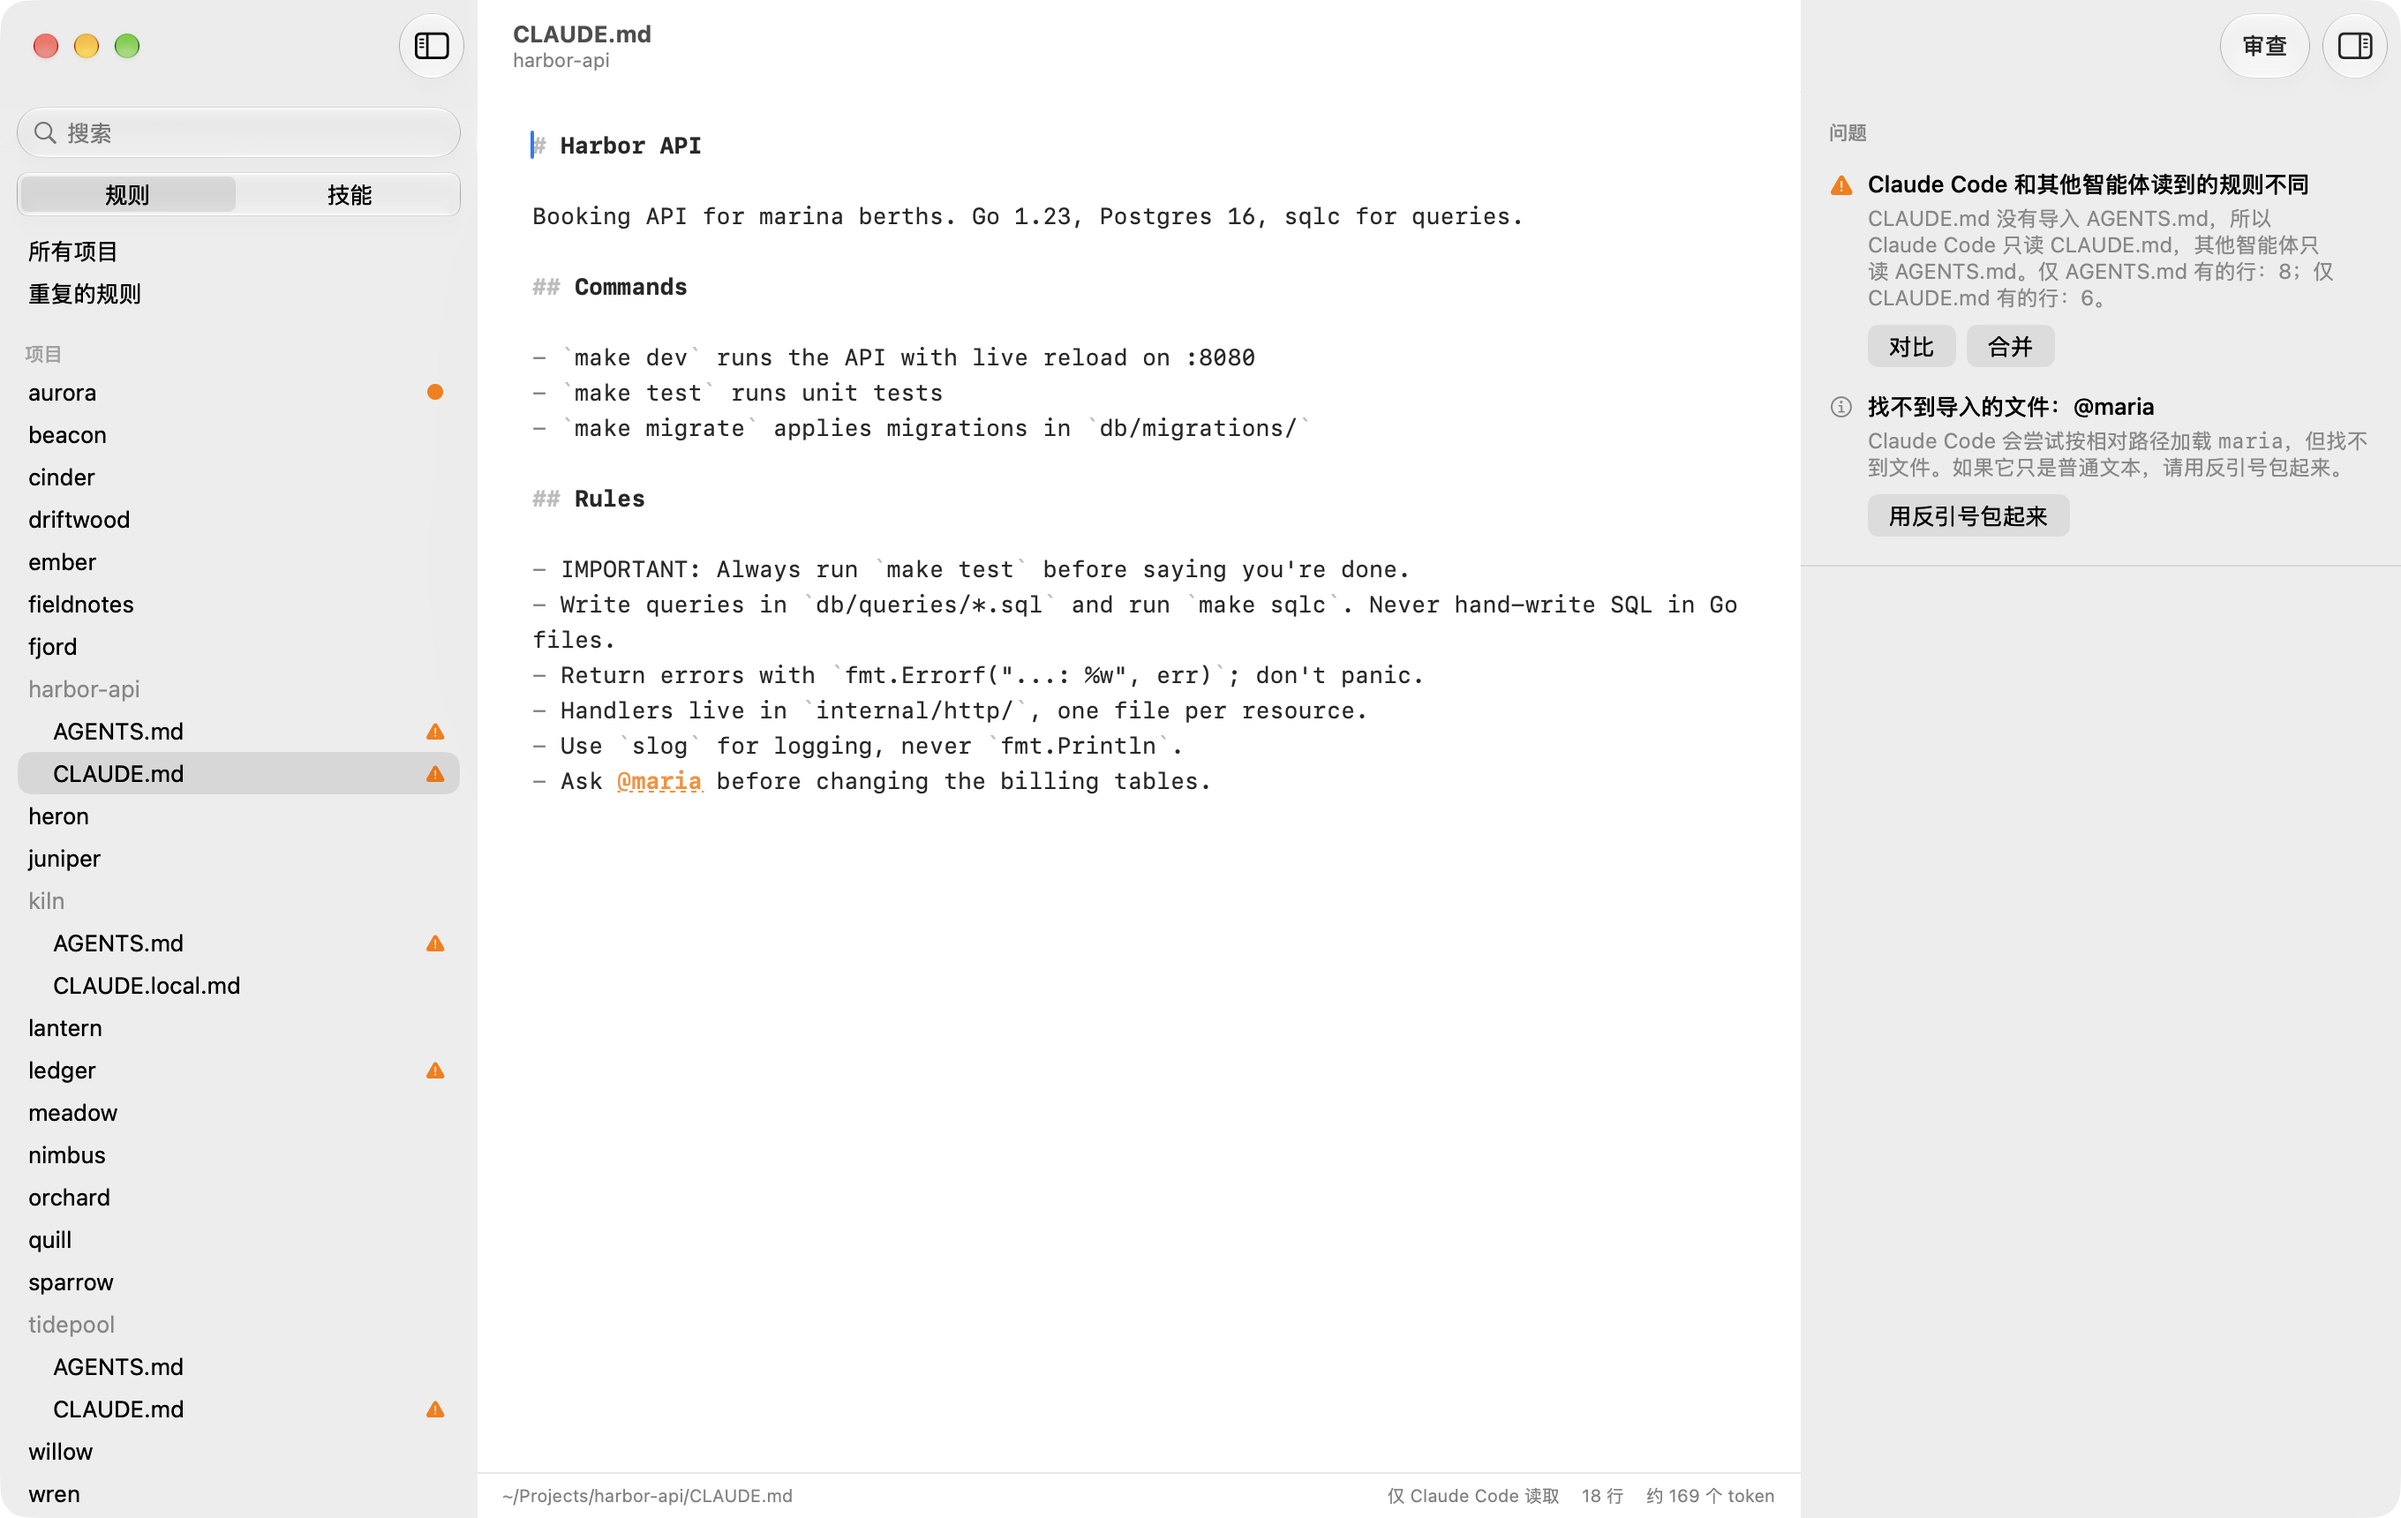
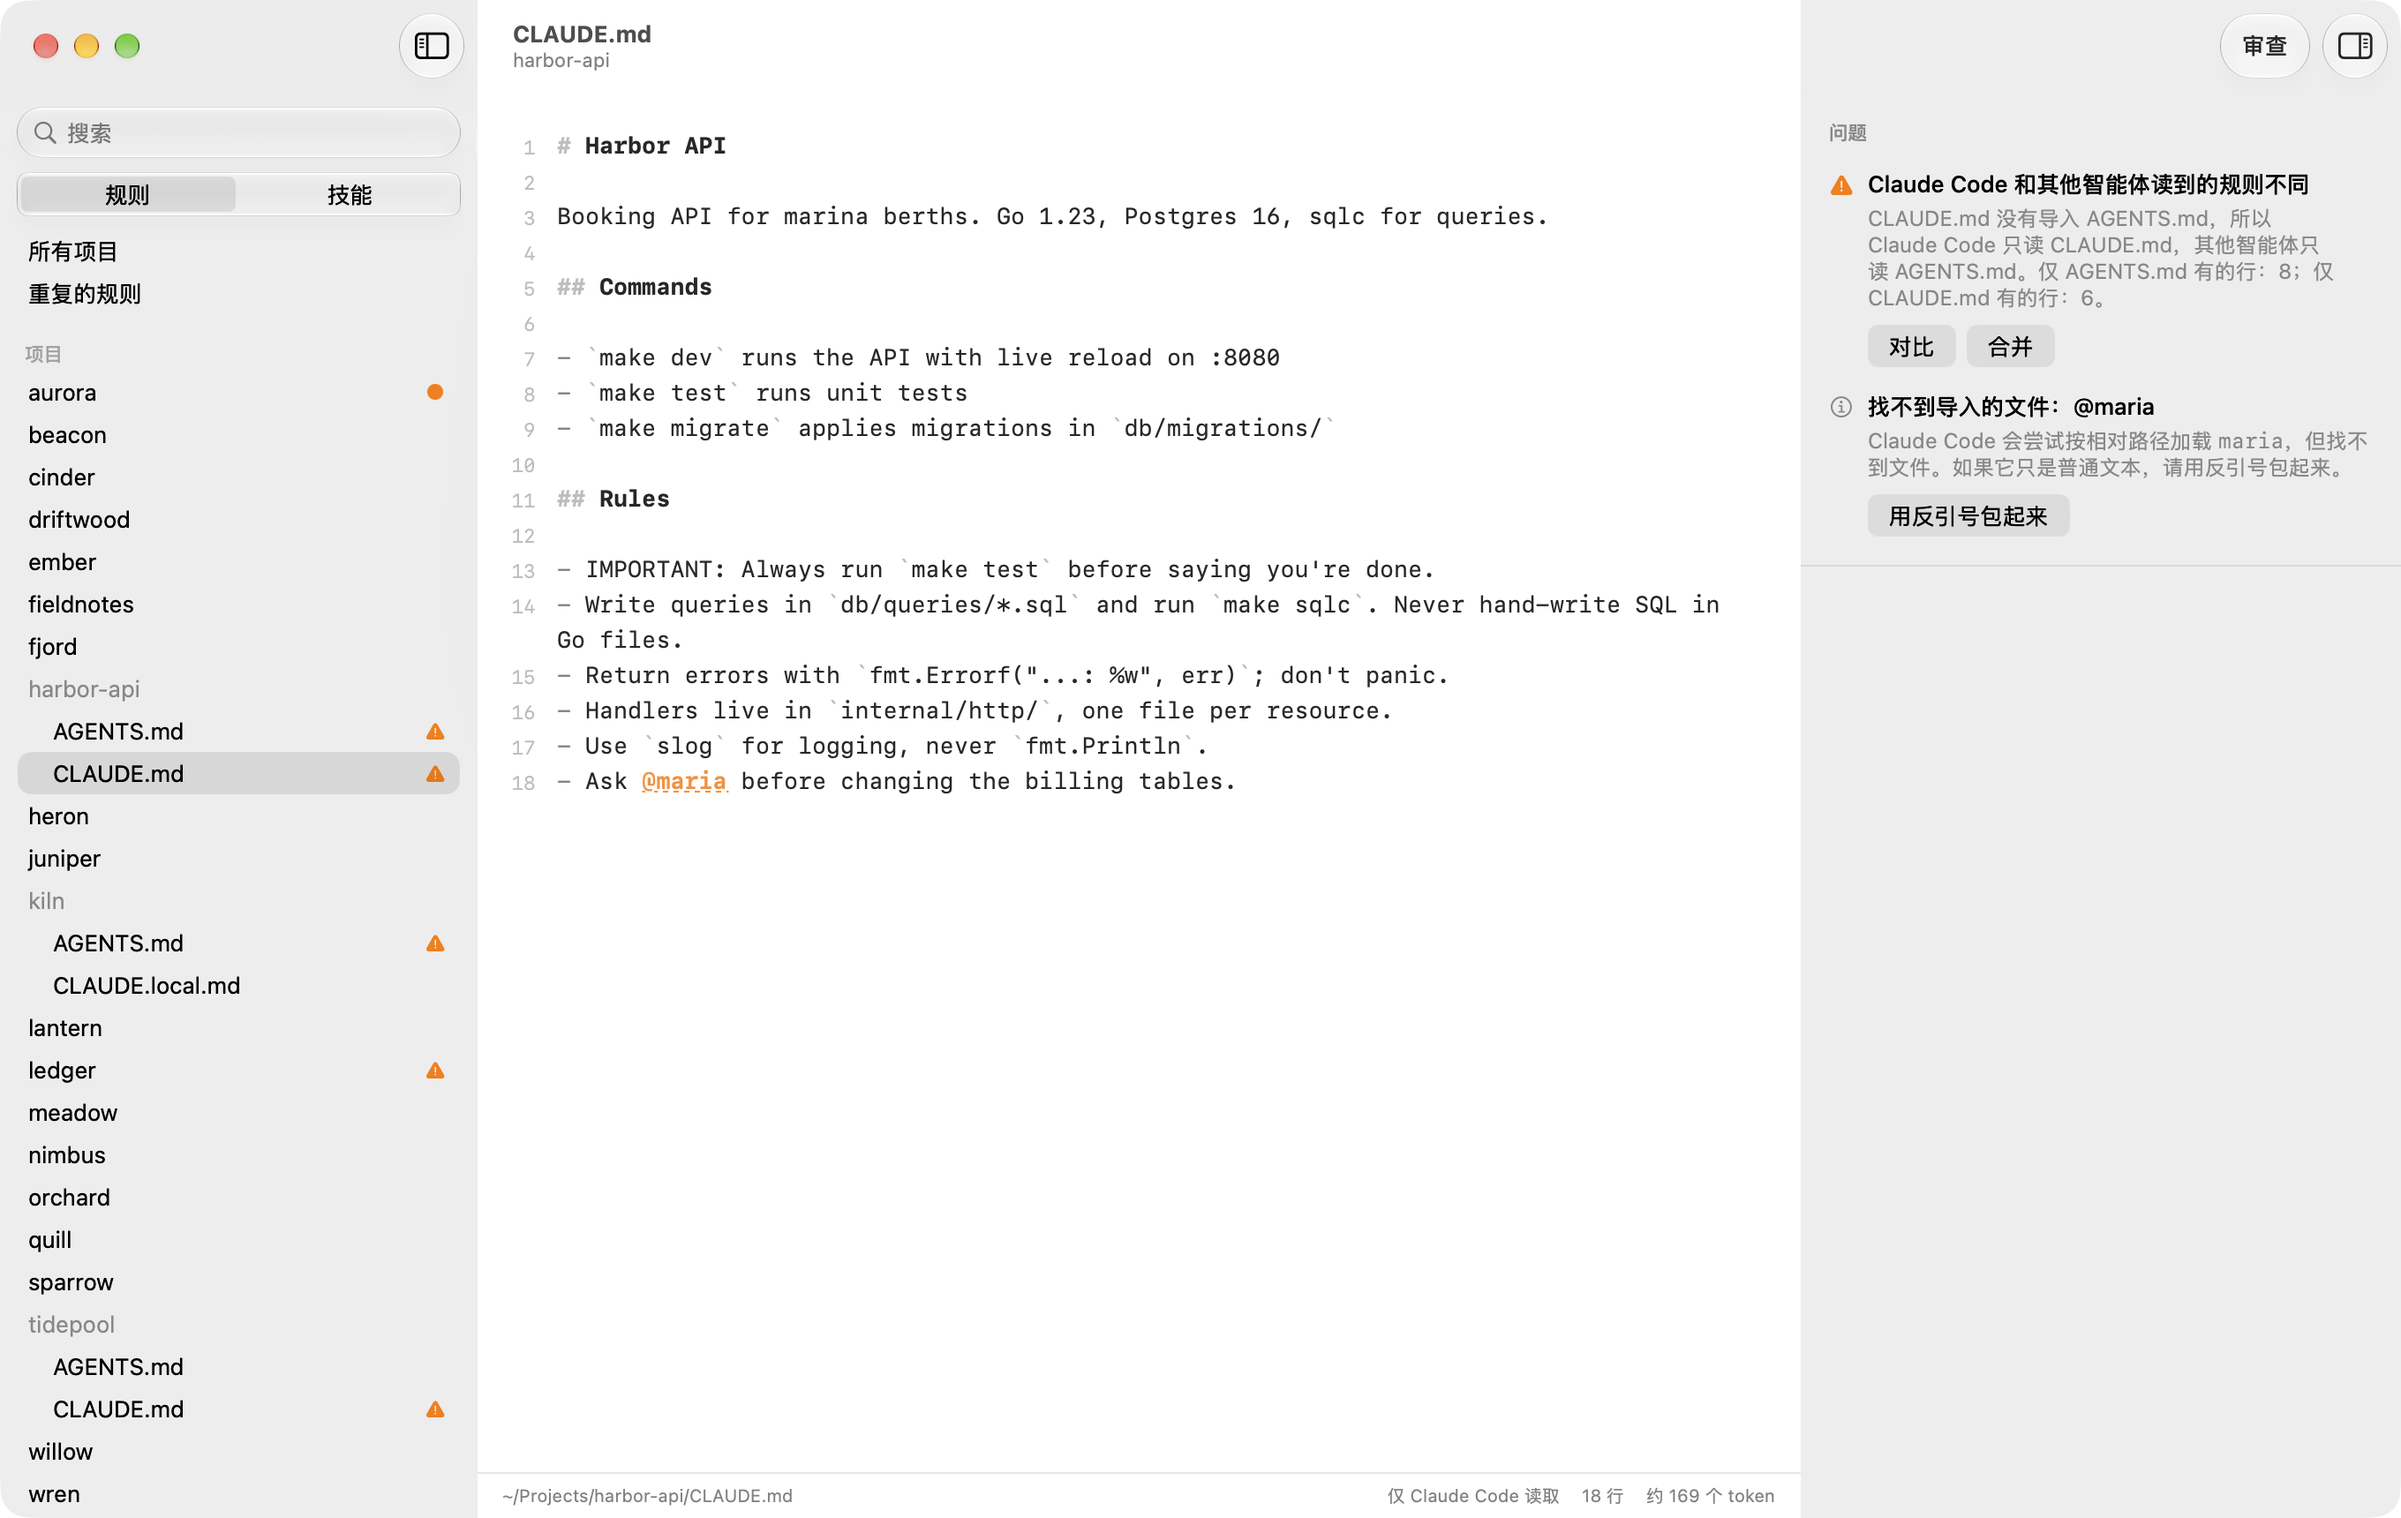
Number the lines in the editor, version 0.2.3
Audits point to lines by number. The numbers sit in an indent every paragraph
has, so the text keeps its right margin; a wrapped line is numbered once, and
the lines the selection is on are a shade darker.

Changed region(s): [[0.2188, 0.3698, 0.7188, 0.5238], [0.2188, 0.1849, 0.5312, 0.339], [0.2188, 0.0924, 0.625, 0.1541]]

diff --git a/Sources/Rulebook/Editor/MarkdownEditor.swift b/Sources/Rulebook/Editor/MarkdownEditor.swift
@@ -59,7 +59,7 @@ struct MarkdownEditor: NSViewRepresentable {
     func makeCoordinator() -> Coordinator { Coordinator(self) }
 
     func makeNSView(context: Context) -> NSScrollView {
-        let scroll = NSTextView.scrollableTextView()
+        let scroll = RulesTextView.scrollableTextView()
         scroll.hasVerticalScroller = true
         scroll.autohidesScrollers = true
         scroll.drawsBackground = true
@@ -109,6 +109,7 @@ struct MarkdownEditor: NSViewRepresentable {
             coordinator.enter(docID, with: text)
             tv.setSelectedRange(NSRange(location: 0, length: 0))
             tv.scrollToBeginningOfDocument(nil)
+            tv.needsDisplay = true
             return
         }
         guard tv.string != text else { return }
@@ -121,6 +122,7 @@ struct MarkdownEditor: NSViewRepresentable {
         }
         MarkdownHighlighter.highlight(tv.textStorage!, baseDir: baseDir, isSkill: isSkill)
         coordinator.isApplyingExternalChange = false
+        tv.needsDisplay = true
     }
 
     final class Coordinator: NSObject, NSTextViewDelegate {
@@ -157,6 +159,95 @@ struct MarkdownEditor: NSViewRepresentable {
     }
 }
 
+/// The editor's text view, with each line's number in the margin, since audits point to lines by number.
+/// The numbers sit in an indent every paragraph has, not in a ruler, so the text keeps its margin on the right.
+/// A long line that wraps is numbered once, and the lines the selection is on are numbered a shade darker.
+final class RulesTextView: NSTextView {
+    /// How far the text moves right to make room for the numbers.
+    static let gutter: CGFloat = 14
+    private static let numberFont = NSFont.monospacedSystemFont(ofSize: 11, weight: .regular)
+    private var scrollObserver: NSObjectProtocol?
+
+    /// Where the text starts, and the numbers end a little before.
+    private var textStart: CGFloat { textContainerOrigin.x + (textContainer?.lineFragmentPadding ?? 0) + Self.gutter }
+
+    override func drawBackground(in rect: NSRect) {
+        super.drawBackground(in: rect)
+        guard rect.minX < textStart else { return }
+        let ns = string as NSString
+        let origin = textContainerOrigin
+        let selection = selectedRange()
+        let active = window?.firstResponder === self
+        // Lines are counted from the first one drawn, so a redraw near the end of a long file doesn't count from the top.
+        var counted = 0, newlines = 0
+
+        func number(at offset: Int, baseline: CGFloat) {
+            guard offset == 0 || (offset <= ns.length && ns.character(at: offset - 1) == 10) else { return }
+            while counted < offset { if ns.character(at: counted) == 10 { newlines += 1 }; counted += 1 }
+            let line = ns.lineRange(for: NSRange(location: offset, length: 0))
+            let current = active && (NSIntersectionRange(line, selection).length > 0
+                || (selection.location >= line.location && selection.location < NSMaxRange(line))
+                || (selection.location == ns.length && NSMaxRange(line) == ns.length && !ns.hasSuffix("\n")))
+            let label = NSAttributedString(string: String(newlines + 1), attributes: [
+                .font: Self.numberFont,
+                .foregroundColor: current ? NSColor.secondaryLabelColor : NSColor.tertiaryLabelColor,
+            ])
+            label.draw(at: NSPoint(x: textStart - 12 - label.size().width, y: baseline - Self.numberFont.ascender))
+        }
+
+        if let layout = textLayoutManager, let content = layout.textContentManager {
+            // TextKit 2 puts the space between lines above a line of text, but inside the height of an empty one,
+            // so the baseline is found from the bottom of the line.
+            let font = MarkdownHighlighter.font
+            let height = ceil(font.ascender) + ceil(-font.descender)
+            let top = CGPoint(x: 0, y: max(0, rect.minY - origin.y))
+            let start = layout.textLayoutFragment(for: top)?.rangeInElement.location ?? layout.documentRange.location
+            layout.enumerateTextLayoutFragments(from: start, options: [.ensuresLayout]) { fragment in
+                let frame = fragment.layoutFragmentFrame
+                guard frame.minY + origin.y <= rect.maxY else { return false }
+                let offset = content.offset(from: content.documentRange.location, to: fragment.rangeInElement.location)
+                guard let first = fragment.textLineFragments.first else { return true }
+                number(at: offset, baseline: origin.y + frame.minY + first.typographicBounds.maxY - height + first.glyphOrigin.y)
+                return true
+            }
+        } else if let layout = layoutManager, let container = textContainer {
+            // TextKit 1, which the view falls back to if anything asks for its layout manager.
+            let glyphs = layout.glyphRange(forBoundingRect: rect.offsetBy(dx: -origin.x, dy: -origin.y), in: container)
+            layout.enumerateLineFragments(forGlyphRange: glyphs) { lineRect, _, _, range, _ in
+                number(at: layout.characterIndexForGlyph(at: range.location),
+                       baseline: origin.y + lineRect.minY + layout.location(forGlyphAt: range.location).y)
+            }
+        }
+    }
+
+    /// The numbers are drawn with the background, which an edit, a scroll or a new selection doesn't always redraw.
+    private func redrawNumbers() {
+        let visible = visibleRect
+        setNeedsDisplay(NSRect(x: 0, y: visible.minY, width: textStart, height: visible.height))
+    }
+
+    override func didChangeText() { super.didChangeText(); redrawNumbers() }
+    override func setFrameSize(_ size: NSSize) { super.setFrameSize(size); redrawNumbers() }
+    override func becomeFirstResponder() -> Bool { defer { redrawNumbers() }; return super.becomeFirstResponder() }
+    override func resignFirstResponder() -> Bool { defer { redrawNumbers() }; return super.resignFirstResponder() }
+
+    override func setSelectedRanges(_ ranges: [NSValue], affinity: NSSelectionAffinity, stillSelecting: Bool) {
+        super.setSelectedRanges(ranges, affinity: affinity, stillSelecting: stillSelecting)
+        redrawNumbers()
+    }
+
+    override func viewDidMoveToSuperview() {
+        super.viewDidMoveToSuperview()
+        if let scrollObserver { NotificationCenter.default.removeObserver(scrollObserver) }
+        guard let clip = superview as? NSClipView else { return }
+        clip.postsBoundsChangedNotifications = true
+        scrollObserver = NotificationCenter.default.addObserver(forName: NSView.boundsDidChangeNotification, object: clip,
+                                                                queue: .main) { [weak self] _ in
+            MainActor.assumeIsolated { self?.redrawNumbers() }
+        }
+    }
+}
+
 @MainActor
 enum MarkdownHighlighter {
     static let size: CGFloat = 13
@@ -166,6 +257,9 @@ enum MarkdownHighlighter {
     static let paragraph: NSParagraphStyle = {
         let p = NSMutableParagraphStyle()
         p.lineSpacing = 4
+        // Room on the left for the line numbers.
+        p.firstLineHeadIndent = RulesTextView.gutter
+        p.headIndent = RulesTextView.gutter
         return p
     }()
     static var baseAttributes: [NSAttributedString.Key: Any] {
